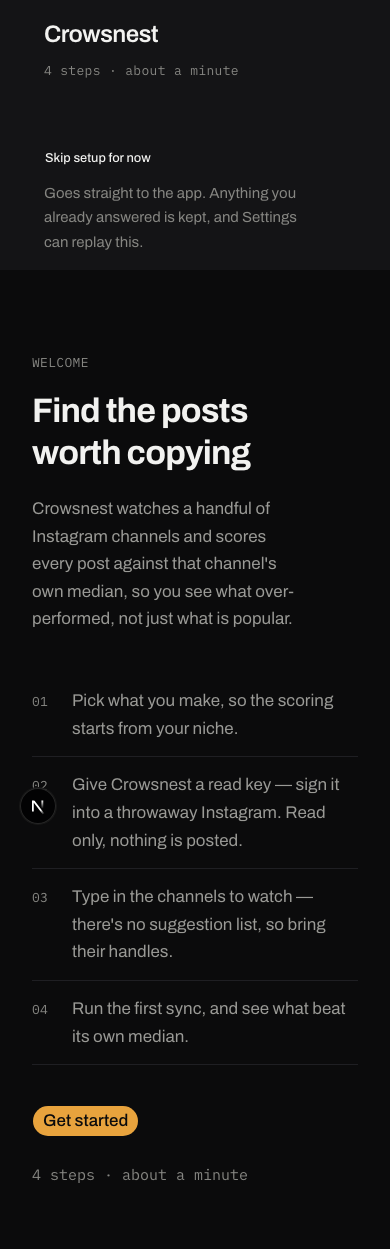
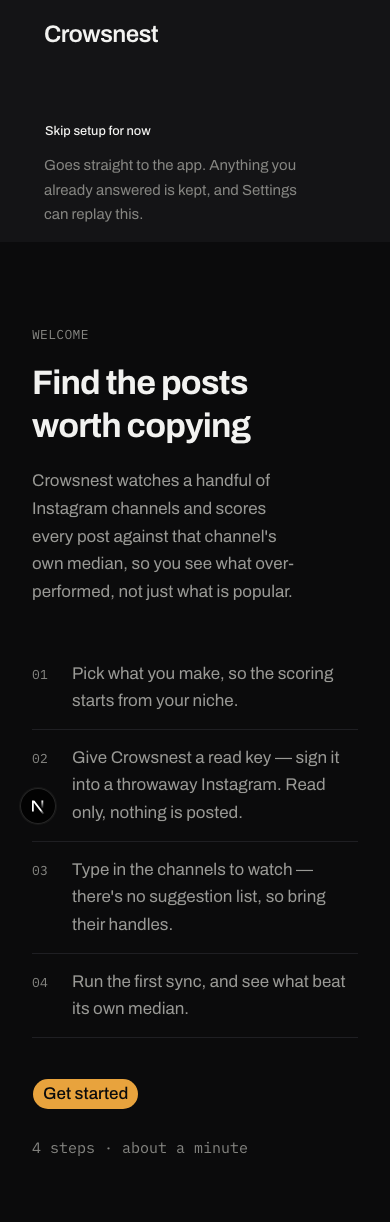
polish(first-run): drop duplicate step-count line on the welcome screen below md (round 2 product pass)
Round 2 first-time-user product pass. On narrow the compact aside header repeated
the same 'N steps, about a minute' line the welcome body already shows; the compact
indicator now renders only for the numbered steps.

Claude-Session: https://claude.ai/code/session_01XbUniwFzh3eahwW2AMyvYH

diff --git a/src/components/first-run/onboarding-flow.tsx b/src/components/first-run/onboarding-flow.tsx
@@ -112,12 +112,14 @@ export function OnboardingFlow({ initialNiche, initialKeywords, initialIgStatus,
 
         {/* Narrow-only compact step indicator: below md the aside is a short header, not
             the fixed rail, so the full tagline and progress spine (below) give way to one
-            line naming where the visitor is. */}
-        <div className="relative z-10 mt-2 font-mono text-2xs tracking-wide text-faint md:hidden">
-          {step === "welcome"
-            ? `${ONBOARDING_STEP_COUNT} steps · about a minute`
-            : `${currentStepMeta?.label} · ${currentStepMeta?.n} / ${ONBOARDING_STEP_COUNT}`}
-        </div>
+            line naming where the visitor is. Only for the numbered steps - the welcome
+            screen's own body already carries the "N steps, about a minute" line, so
+            repeating it in the header here would double it up on narrow. */}
+        {step !== "welcome" && (
+          <div className="relative z-10 mt-2 font-mono text-2xs tracking-wide text-faint md:hidden">
+            {currentStepMeta?.label} · {currentStepMeta?.n} / {ONBOARDING_STEP_COUNT}
+          </div>
+        )}
 
         <div className="relative z-10 mt-16 hidden md:block">
           <p className="max-w-[15ch] text-xl leading-tight font-bold tracking-tight text-balance">
